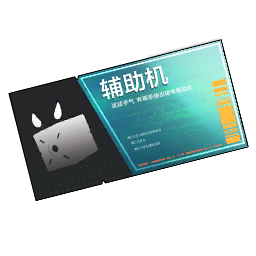
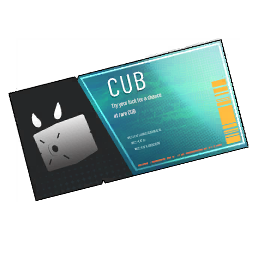
I FOUND THE SHARDS

diff --git a/README.md b/README.md
@@ -3,11 +3,11 @@ I mostly made this because I saw the Uma Musume one and got jealous lol
 
 ## Current State
 - Organizable by patches
+  - GLB Through the Tide Home integrated - Bianca: Crepuscule, Discord: Secator, and Veronica: Aegis
   - Through the Tide Home - Bianca: Crepuscule
   - Woven Prologue - Discord: Secator
-  - GLB Through the Tide Home integrated - Bianca: Crepuscule, Discord: Secator, and Veronica: Aegis
-  - Ideal Cage (PICTURES TEMPORARY UNTIL OFFICIAL RELEASE)
-  - KR/JP Ideal Cage integrated (predicted for KR) - Discord: Secator and Veronica: Aegis
+  - Ideal Cage - Veronica: Aegis
+  - KR/JP Ideal Cage integrated - Discord: Secator and Veronica: Aegis
 - Themed Banner and Fate Themed Banner
 - Base Member Target with possible S-rank check
 - Uniframe banner
@@ -16,18 +16,19 @@ I mostly made this because I saw the Uma Musume one and got jealous lol
 ## Sources
 - Huaxu
   - [Frame images](https://assets.huaxu.app/browse/cn/image/role/?layout=grid)
+  - Icons
+    - [Shards, currency](https://assets.huaxu.app/browse/glb/assets/product/texture/image/icontools/?layout=grid#)
+    - [Character)](https://assets.huaxu.app/browse/glb/assets/product/texture/image/role/?layout=grid#)
+    - [CUBs](https://assets.huaxu.app/browse/glb/assets/product/texture/image/rolepartner/?layout=grid)
 - [Gray Ravens](https://grayravens.com/wiki/GRAY_RAVENS)
 
 ## Current Issues
-- I think the Themed/CUB on debut also gives debut unit/CUB shards? Unsure though (also I don't have the assets so I have to find a replacement image)
 - Pulling too fast will make it bug out (duh don't do that)
 - Gets a little slow because I think that's Streamlit latency (will look for a different place to host)
 - The A-rank check resets in Member Target if you swap patches (probably doesn't really matter but still)
-- I don't have assets for the Crepuscule+Noctiluca+Secator+Aegis shards oops (also must update shards to keep track of if they're added or not)
-  - Currently shards just go up to Geiravor and Wrathfang
+- Future banners in IP don't give previous unit's shards (CUB and unit)
 
 ## TODO
-- Ideal Cage update (I'm missing assets help)
 - Weapon banner (is going to be a pain because of the individual off-rates but surely—)
 
 - Arrival banner
